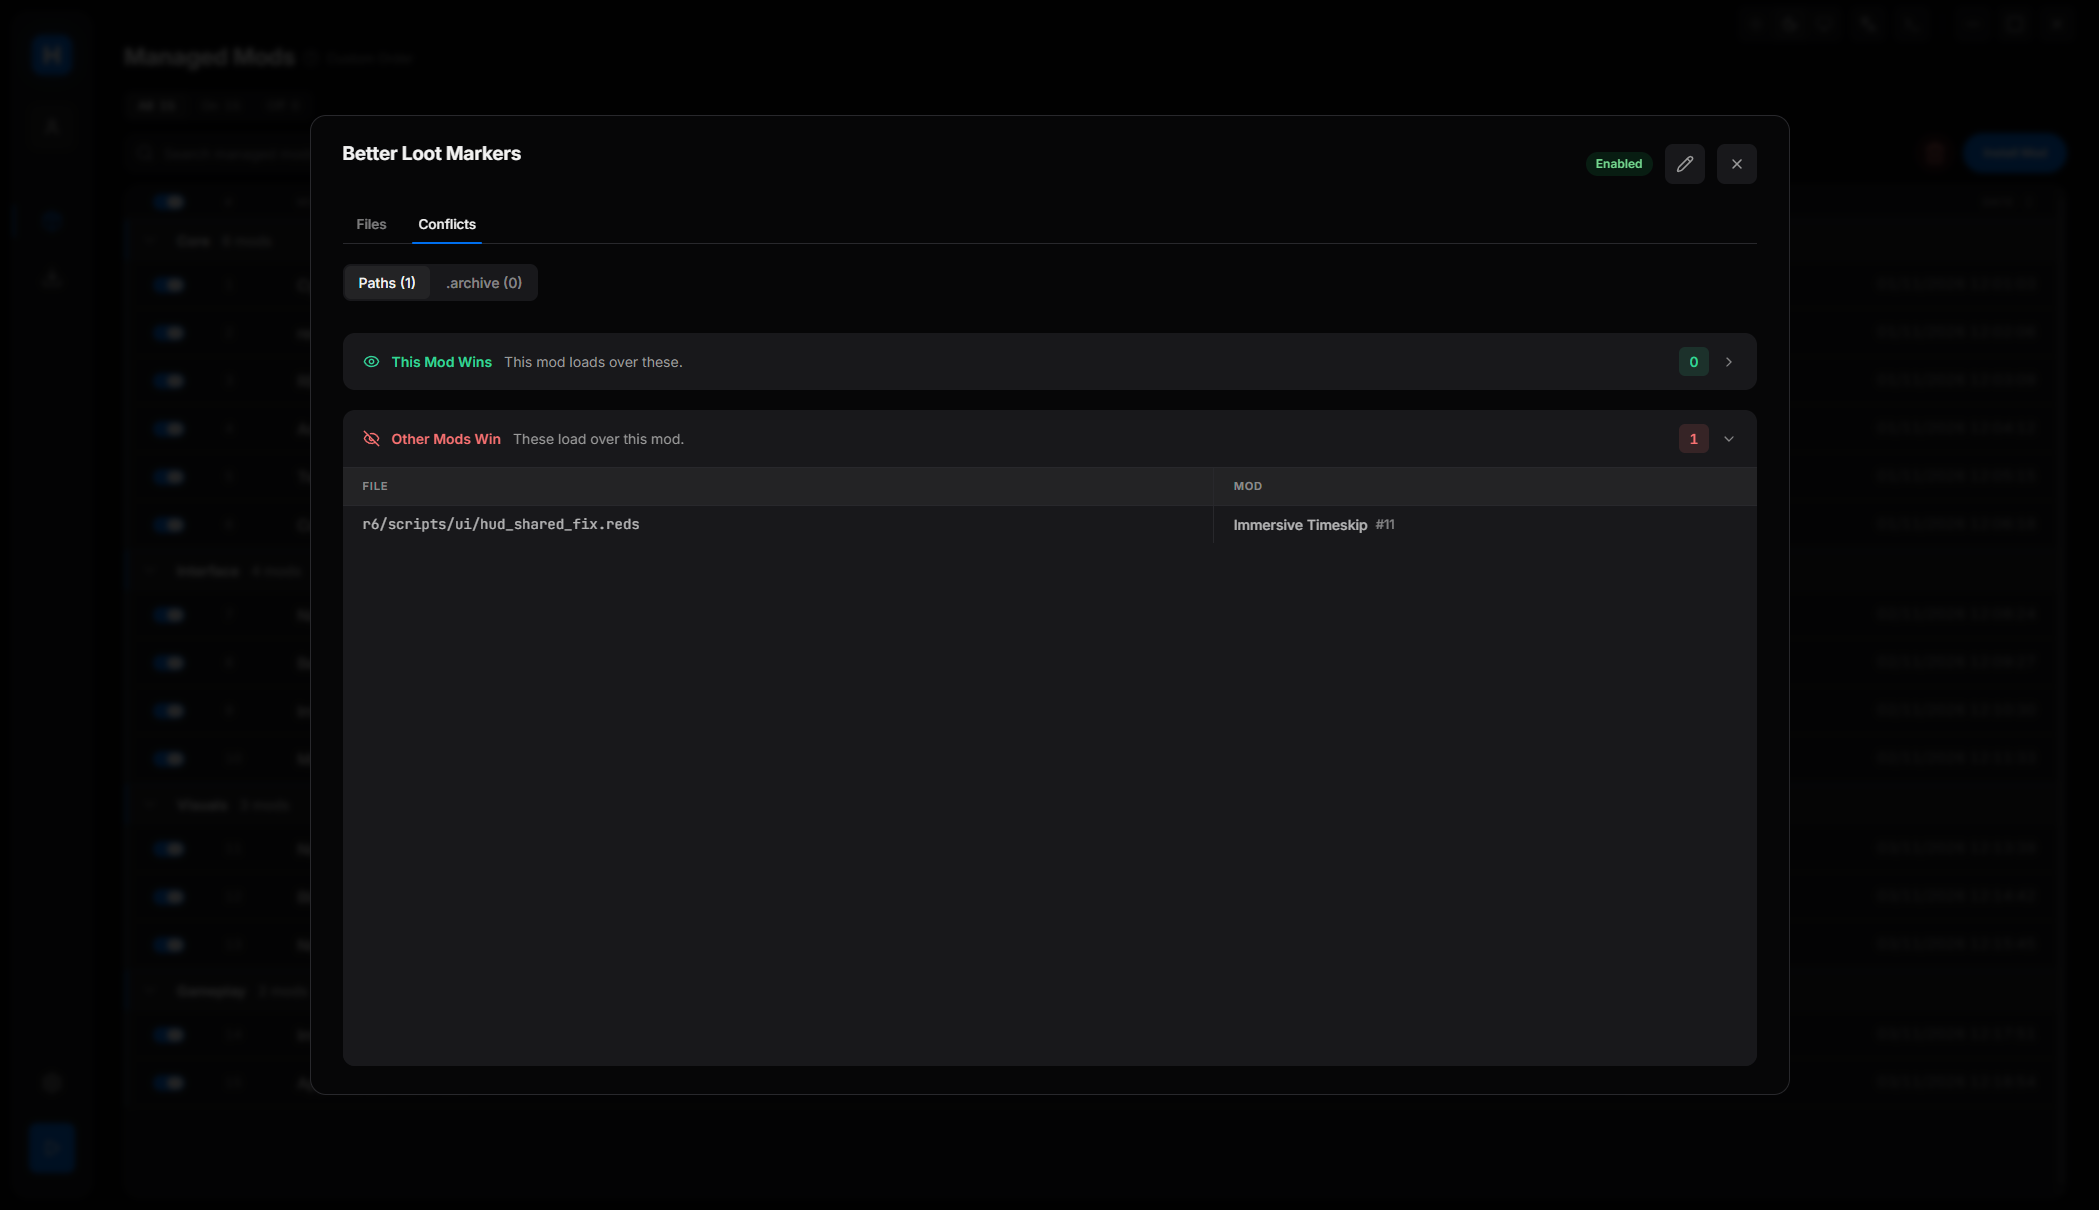
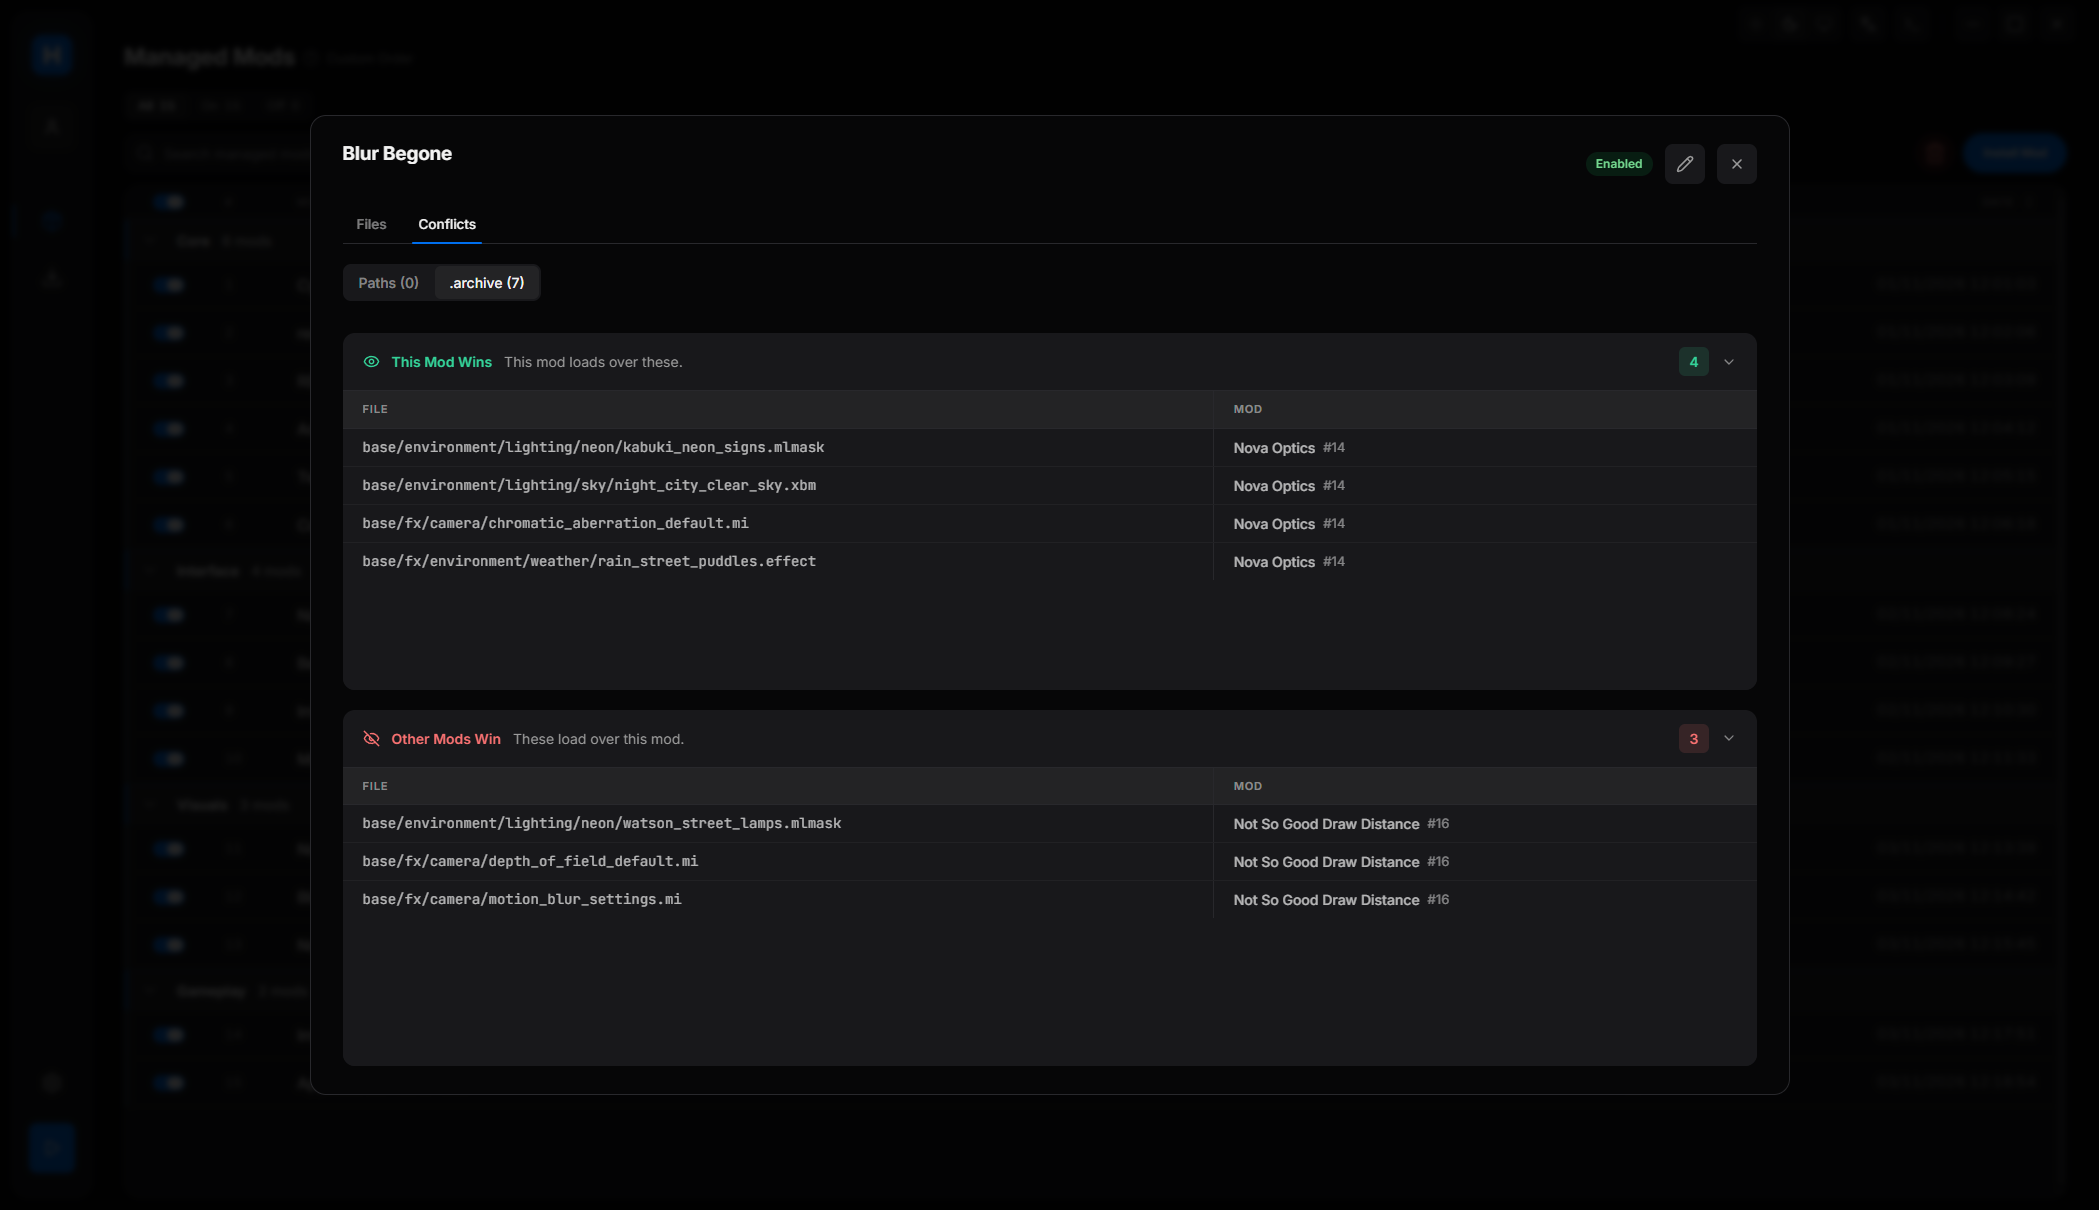
docs: restore README header, tell the story first, add .archive and logs screenshots
Brings back the logo, tagline and badges and the original story text, moves How it
was made to the top, and places each screenshot next to what it explains. The
conflicts screenshot now shows the .archive tab, and App Logs gets its own section.

diff --git a/README.md b/README.md
@@ -1,29 +1,85 @@
-# Hyperion
+<p align="center">
+  <img src="src/main/resources/hyperion-logo.png" alt="Hyperion" width="520" />
+</p>
 
-A mod manager for Cyberpunk 2077 on Windows. It keeps your mods organized, shows which ones conflict, and launches the game with your mods loaded, without filling the game folder with mod files.
+<p align="center">
+  A mod manager for Cyberpunk 2077.
+</p>
+
+<p align="center">
+  <img src="https://img.shields.io/github/v/release/caiovaz567/Hyperion-Mod-Manager?color=006FEE&label=release&cacheSeconds=300" alt="Latest release" />
+  <img src="https://img.shields.io/badge/game-Cyberpunk%202077-fcee09" alt="Game: Cyberpunk 2077" />
+  <img src="https://img.shields.io/badge/platform-Windows-ff3b30" alt="Platform: Windows" />
+  <img src="https://img.shields.io/github/license/caiovaz567/Hyperion-Mod-Manager?color=34d399" alt="License: GPL-3.0" />
+</p>
+
+---
+
+Hyperion is a desktop application for managing Cyberpunk 2077 mods. It keeps your mod library organized, installs mods without filling the game folder, detects conflicts, and launches the game - all from one place.
 
 **Download:** [latest release](https://github.com/caiovaz567/Hyperion-Mod-Manager/releases/latest)
 
-<p>
-  <img src="docs/screenshots/library.png" width="800" alt="Mod library grouped by separators, with conflict badges on the rows that overwrite each other">
-  <img src="docs/screenshots/conflicts.png" width="800" alt="Conflicts tab of a mod, listing the file another mod overwrites">
-  <img src="docs/screenshots/downloads.png" width="800" alt="Downloads screen listing archives with their status, version, size and date">
-  <img src="docs/screenshots/library-light.png" width="800" alt="Mod library in light mode">
-  <img src="docs/screenshots/settings.png" width="800" alt="Settings, General tab">
-</p>
+## How it was made
 
-The screenshots use a demo library. The mods are real, but the dates, sizes and conflicts are invented.
+Hyperion started as a small personal experiment: I wanted to try Claude Code, had just started modding Cyberpunk 2077, and thought building a mod manager for my own setup would be a fun test project. Then the fun part got a little out of hand.
+
+Since then, Hyperion has become the manager I use for my own Cyberpunk 2077 mod list. It grew around the things I wanted day to day: a clean library, clear conflicts, predictable load order, and a launch flow that keeps the game folder under control. After using it privately for a while, I decided to make it public in case it is useful to someone else too.
+
+It is built with AI assistance. I use Claude Code to help write, debug and document the code, and I test the changes before each release.
 
 ## What it does
 
-- **Library:** turn mods on and off, one at a time or in bulk. Group them with collapsible separators and drag them to set the load order. On a shared file, the mod lower in the list wins.
-- **Conflicts:** finds mods that replace the same file, and `.archive` files that change the same game resource. Each mod shows what it wins and what it loses.
-- **Installs:** handles `.zip`, `.rar` and `.7z`, with a full FOMOD wizard for mods that offer options. You can reinstall from the original archive at any time.
+### Your library
+
+Turn mods on and off, one at a time or in bulk. Group them with collapsible separators and drag them to set the load order. On a shared file, the mod lower in the list wins.
+
+<p align="center">
+  <img src="docs/screenshots/library.png" width="800" alt="Mod library grouped by separators, with conflict badges on the rows that overwrite each other" />
+</p>
+
+<sub>The screenshots use a demo library. The mods are real, but the dates, sizes, conflicts and log entries are invented.</sub>
+
+### Conflicts
+
+Two mods can change the same part of the game even when their `.archive` files have different names, so the conflict never shows up as a shared file. Hyperion reads inside each `.archive` to find these, and it also catches mods that replace the same loose file.
+
+A small badge on each row tells you if a mod wins or loses. Clicking it shows exactly which game resources are involved and against which mod.
+
+<p align="center">
+  <img src="docs/screenshots/conflicts.png" width="800" alt="Conflicts tab of a mod showing .archive conflicts: the game resources this mod wins and the ones another mod wins" />
+</p>
+
+### A clean game folder
+
 - **Launching:** mods are mounted over the game with usvfs when you press play. No admin rights, and the library can be on another drive.
-- **REDmod:** compiles your REDmods at launch, in the order of your library, and keeps the result outside the game folder. It compiles again by itself when your REDmods or the game change.
+- **REDmod:** your REDmods are compiled at launch, in the order of your library, and the result stays outside the game folder. They compile again by themselves when your REDmods or the game change.
 - **Mod settings:** files that tools like CET create while you play are saved in a separate folder and loaded again next time, so your settings stay.
-- **Nexus Mods:** installs from `nxm://` links, and finds updates for the exact file you have installed. Premium accounts can update in one click. Free accounts open the Nexus page and finish from there.
-- **Extras:** light and dark modes, eight accent colors, English and Brazilian Portuguese, a built-in log viewer, and automatic app updates.
+
+### Downloads and Nexus Mods
+
+Hyperion installs `.zip`, `.rar` and `.7z`, with a full FOMOD wizard for mods that offer options, and you can reinstall from the original archive at any time.
+
+It also installs from `nxm://` links, and finds updates for the exact file you have installed. Premium accounts can update in one click. Free accounts open the Nexus page and finish from there.
+
+<p align="center">
+  <img src="docs/screenshots/downloads.png" width="800" alt="Downloads screen listing archives with their status, version, size and date" />
+</p>
+
+### Logs
+
+When something goes wrong, you can see why without leaving the app. App Logs keeps app events on one tab and every Nexus request on another, with the status, the response time and the response itself. Your API key stays masked.
+
+<p align="center">
+  <img src="docs/screenshots/logs.png" width="800" alt="App Logs, Requests tab, with one Nexus request expanded to show its response" />
+</p>
+
+### Make it yours
+
+Light and dark modes, eight accent colors, and English or Brazilian Portuguese. The app also updates itself.
+
+<p align="center">
+  <img src="docs/screenshots/library-light.png" width="800" alt="Mod library in light mode" />
+</p>
 
 ## Getting started
 
@@ -86,14 +142,6 @@ npm test              # Vitest
 npm run typecheck     # TypeScript
 npm run test:e2e      # Playwright, on the real app
 ```
-
-## How it was made
-
-Hyperion started as a small personal experiment: I wanted to try Claude Code, had just started modding Cyberpunk 2077, and thought building a mod manager for my own setup would be a fun test project. Then the fun part got a little out of hand.
-
-It became the manager I use for my own mod list, and it grew around the things I wanted day to day: a clean library, clear conflicts, a predictable load order, and a game folder that stays under control.
-
-It is built with AI assistance. I use Claude Code to help write, debug and document the code, and I test the changes before each release.
 
 ## Credits
 
